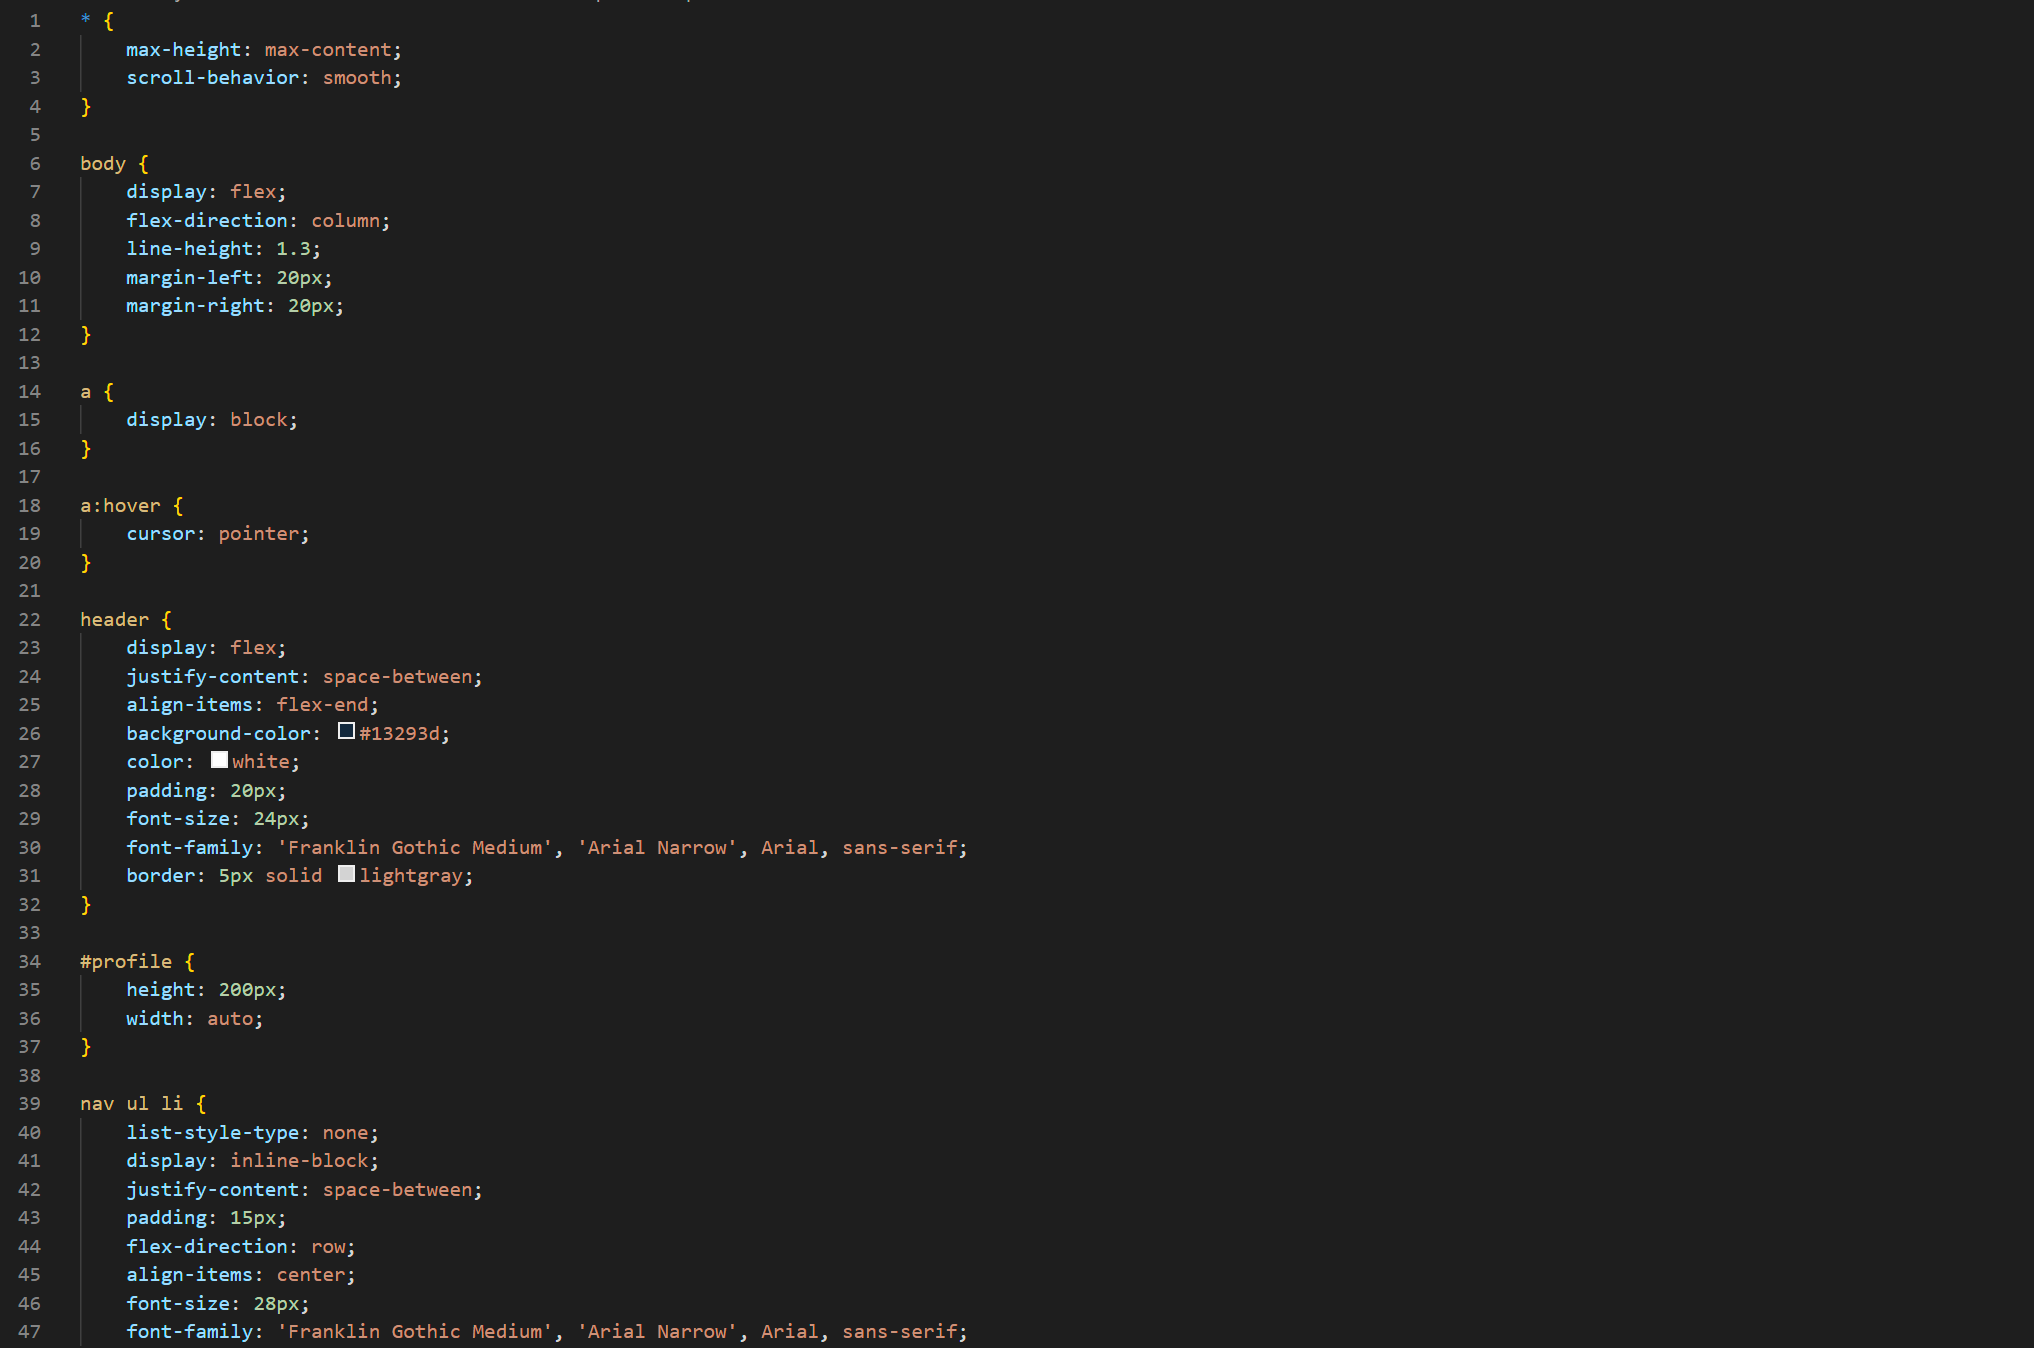
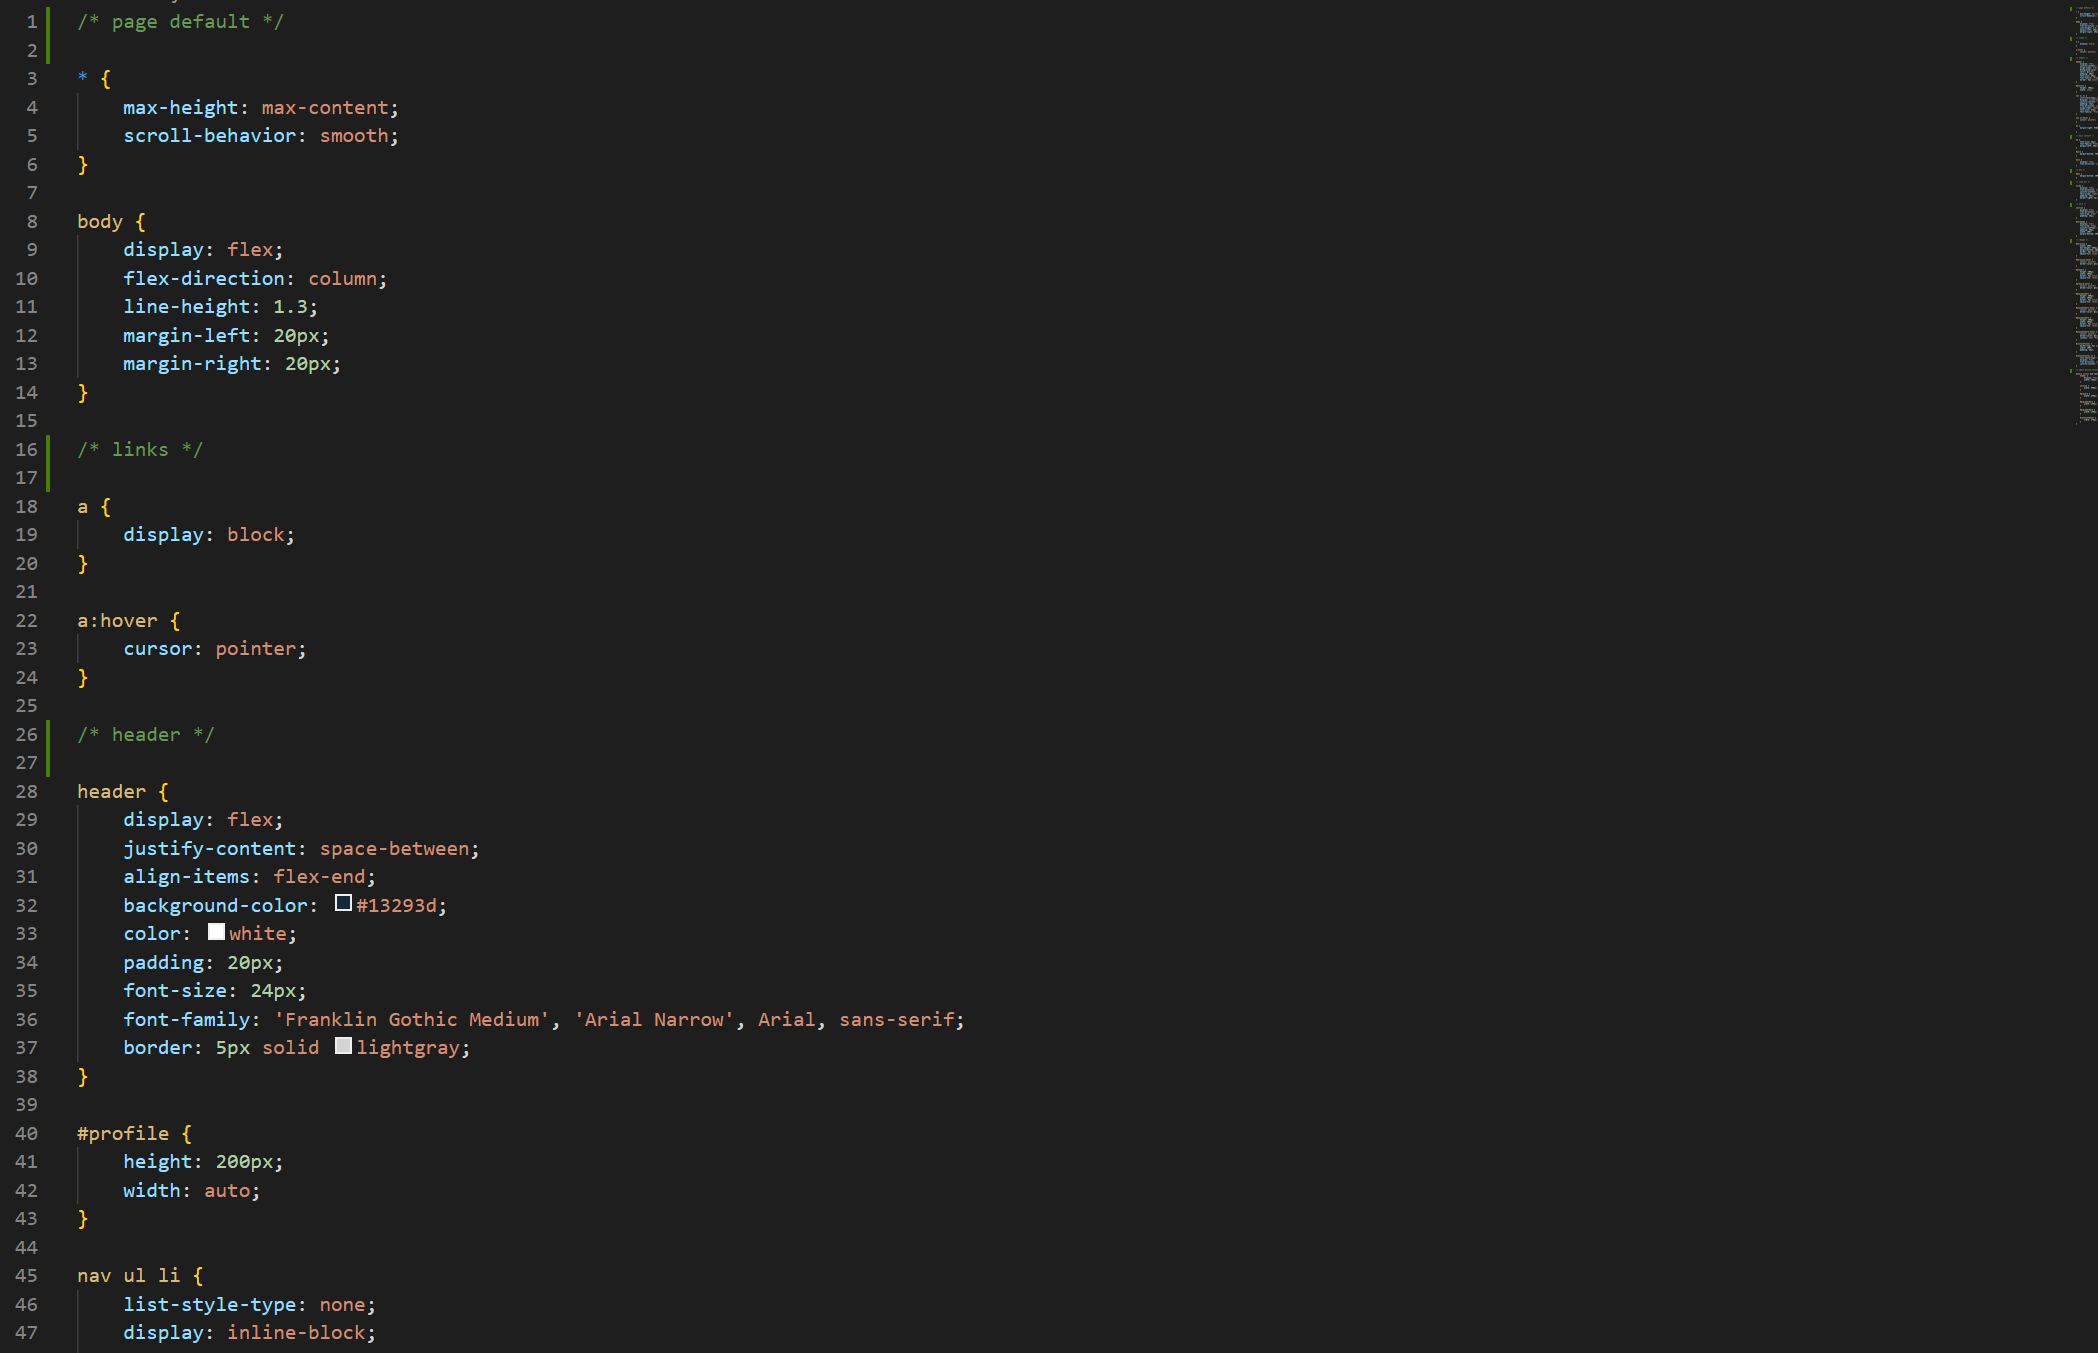
changed images of css for read.me

diff --git a/assets/css/style.css b/assets/css/style.css
@@ -1,3 +1,5 @@
+/* page default */
+
 * {
     max-height: max-content;
     scroll-behavior: smooth;
@@ -11,6 +13,8 @@ body {
     margin-right: 20px;
 }
 
+/* links */
+
 a {
     display: block;
 }
@@ -18,6 +22,8 @@ a {
 a:hover {
     cursor: pointer;
 }
+
+/* header */
 
 header {
     display: flex;
@@ -56,6 +62,8 @@ h1 {
 
 }
 
+/* main content */
+
 h2 {
     font-size: 28px;
     font-family:'Franklin Gothic Medium', 'Arial Narrow', Arial, sans-serif;
@@ -71,9 +79,13 @@ main {
     flex-direction: row;
 }
 
+/* bio */
+
 #bio {
     margin-bottom: 200px;
 }
+
+/* side bar */
 
 aside {
     display: flex;
@@ -83,6 +95,8 @@ aside {
     padding: 20px;
     border-right: 5px solid lightgray;
 }
+
+/* work */
 
 section {
     display: flex;
@@ -99,6 +113,8 @@ section {
     width: 100%;
     margin-bottom: 200px;
 }
+
+/* images */
 
 #horeison {
     width: 100%;
@@ -162,6 +178,8 @@ section {
     flex-direction: row;
     justify-content: space-around;
 }
+
+/* small device settings */
 
 @media screen and (max-width: 768px) {
     header {

diff --git a/README.md b/README.md
@@ -11,17 +11,14 @@ https://github.com/rstreep/my-professional-portfolio/blob/main/assets/images/htm
 https://github.com/rstreep/my-professional-portfolio/blob/main/assets/images/html2.png?raw=true
 
 CSS:
-https://github.com/rstreep/my-professional-portfolio/blob/main/assets/images/css1.png?raw=true
-https://github.com/rstreep/my-professional-portfolio/blob/main/assets/images/css2.png?raw=true
-https://github.com/rstreep/my-professional-portfolio/blob/main/assets/images/css3.png?raw=true
-https://github.com/rstreep/my-professional-portfolio/blob/main/assets/images/css4.png?raw=true
-https://github.com/rstreep/my-professional-portfolio/blob/main/assets/images/css5.png?raw=true
+
 
 Reset CSS:
 https://github.com/rstreep/my-professional-portfolio/blob/main/assets/images/resetcss1.png?raw=true
 
 Application:
-
+https://github.com/rstreep/my-professional-portfolio/blob/main/assets/images/app1.png?raw=true
+https://github.com/rstreep/my-professional-portfolio/blob/main/assets/images/app2.png?raw=true
 
 #### Published Site
 
